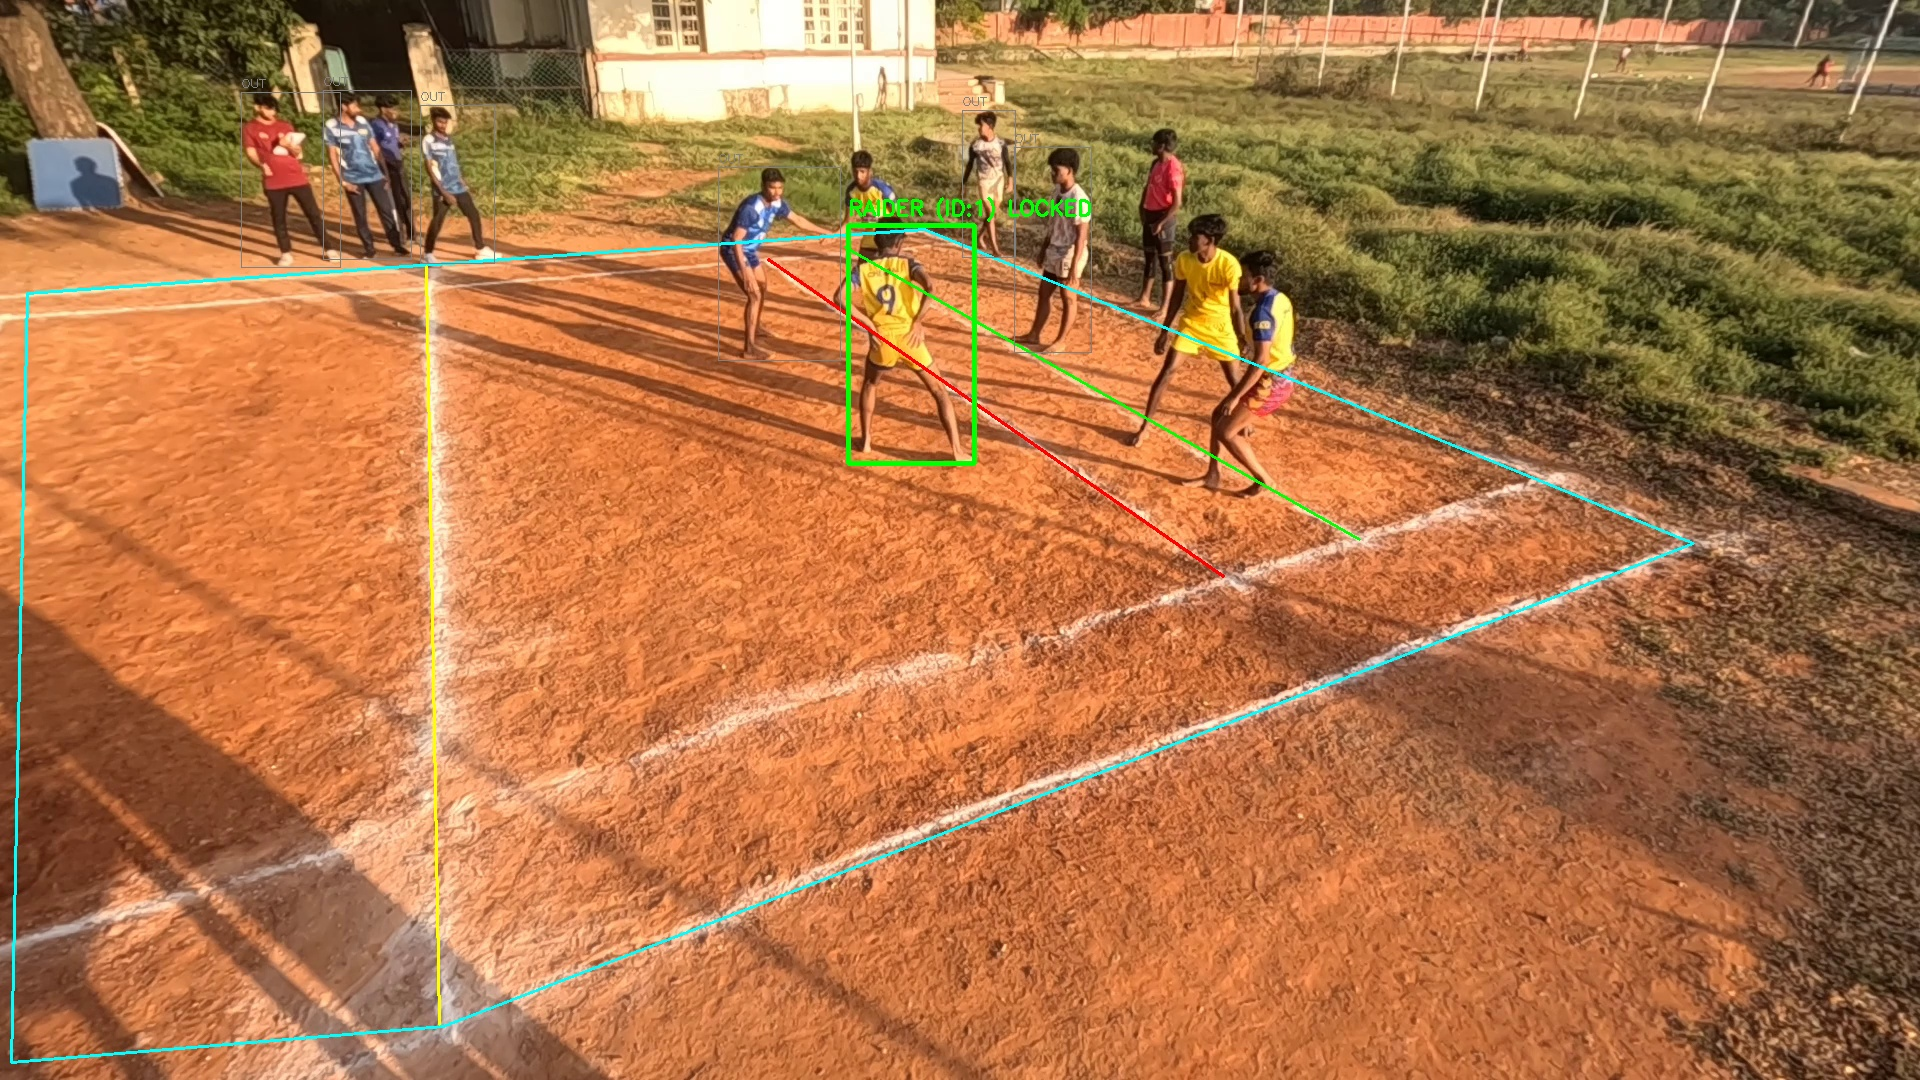
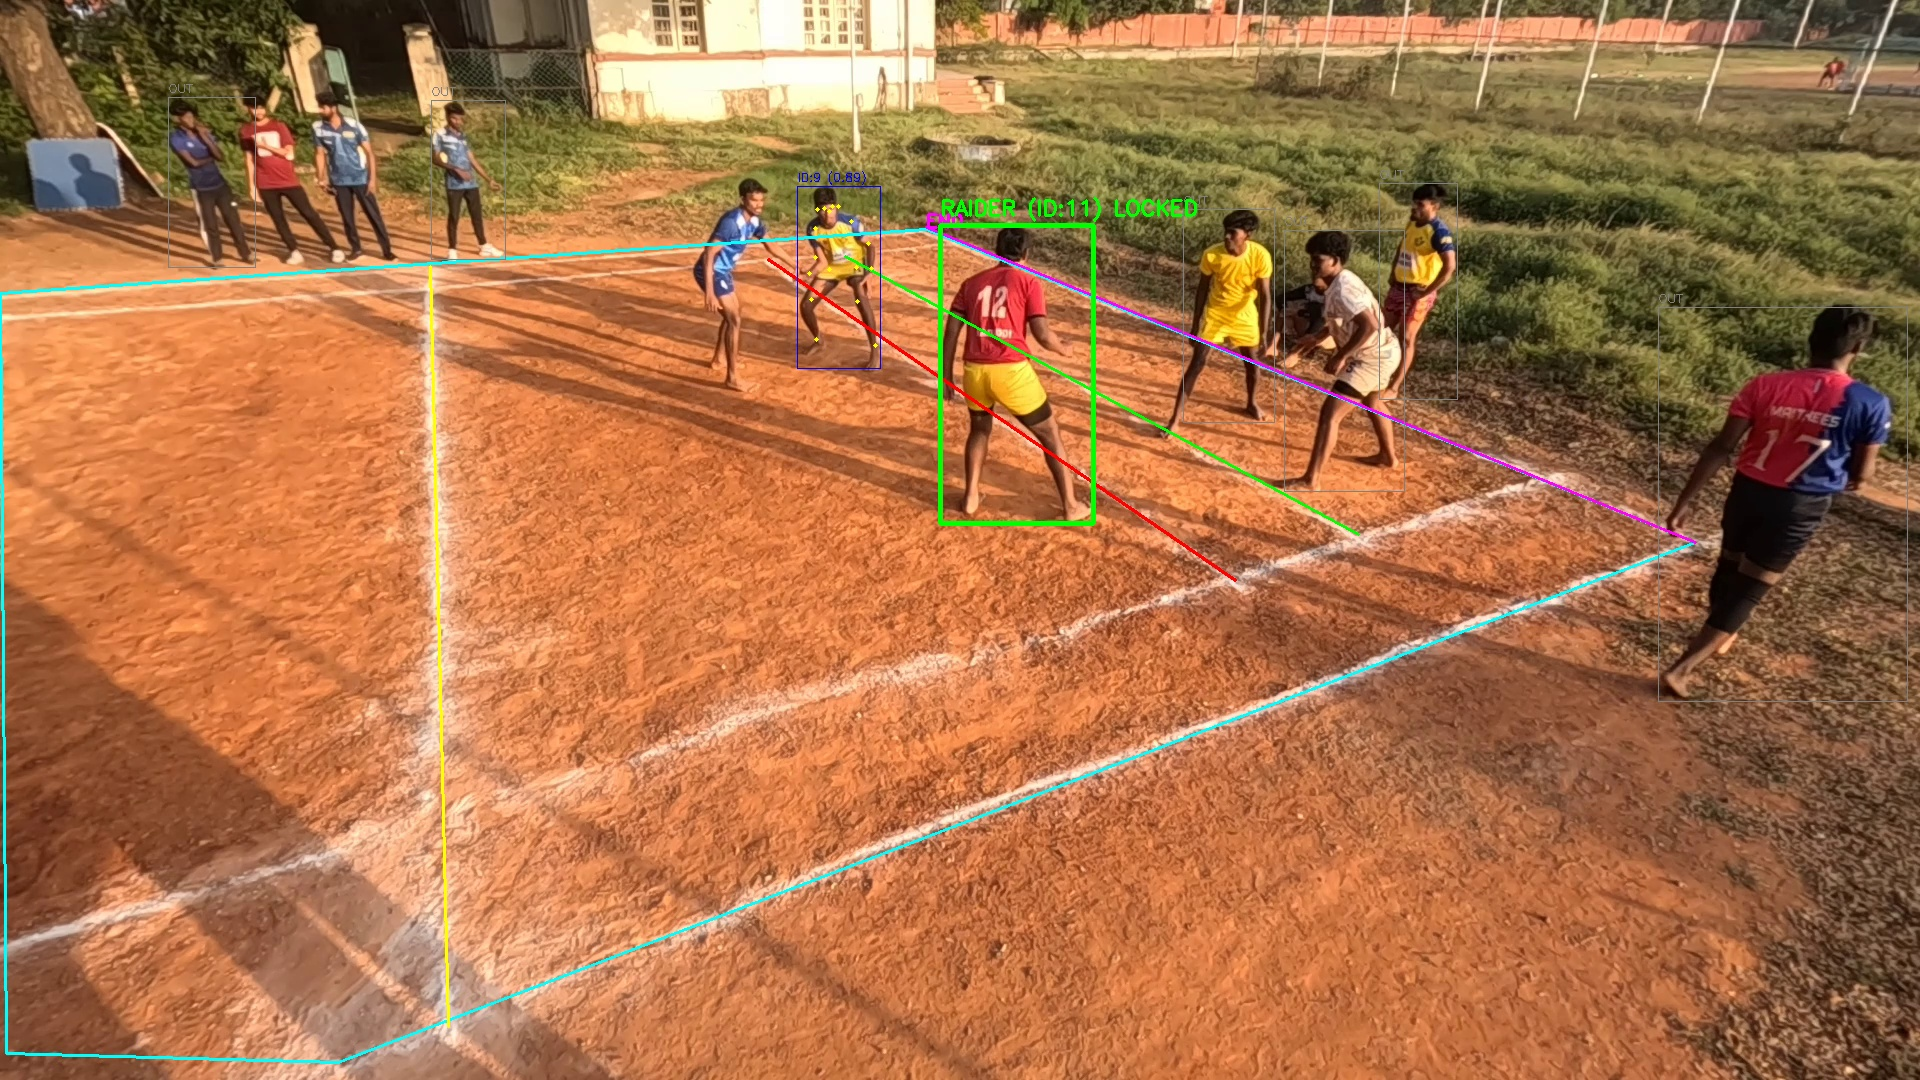
3rd review final push

diff --git a/scripts/data_extract.py b/scripts/data_extract.py
@@ -195,25 +195,20 @@ class DataExtractor:
                     feet_x = (x1 + x2) // 2
                     feet_y = y2  # Bottom of bounding box
                     
-                    # Track maximum penetration from ANY body part
+                    # Track maximum penetration using only INSIDE-COURT points
                     max_penetration_point = (feet_x, feet_y)
                     max_penetration_depth = self.court_dynamics.get_penetration_depth((feet_x, feet_y))
-                    
-                    # Check all keypoints for maximum penetration
+
+                    # Check keypoints — only those confirmed inside the play box
                     if keypoints is not None:
                         for kpt in keypoints:
                             if kpt[0] > 0 and kpt[1] > 0:
-                                kpt_depth = self.court_dynamics.get_penetration_depth((int(kpt[0]), int(kpt[1])))
-                                if kpt_depth > max_penetration_depth:
-                                    max_penetration_depth = kpt_depth
-                                    max_penetration_point = (int(kpt[0]), int(kpt[1]))
-                    
-                    # Also check bounding box corners for extended limbs
-                    for corner in [(x1, y2), (x2, y2), (feet_x, y2)]:
-                        corner_depth = self.court_dynamics.get_penetration_depth(corner)
-                        if corner_depth > max_penetration_depth:
-                            max_penetration_depth = corner_depth
-                            max_penetration_point = corner
+                                kp = (int(kpt[0]), int(kpt[1]))
+                                if self.court_dynamics.is_inside_play_box(kp):
+                                    kpt_depth = self.court_dynamics.get_penetration_depth(kp)
+                                    if kpt_depth > max_penetration_depth:
+                                        max_penetration_depth = kpt_depth
+                                        max_penetration_point = kp
                     
                     all_players[tid]['positions'].append((max_penetration_point[0], max_penetration_point[1], frame_count))
                     all_players[tid]['keypoints'].append(keypoints)

diff --git a/src/ui/kabaddi_ui_clean.py b/src/ui/kabaddi_ui_clean.py
@@ -571,20 +571,21 @@ class KabaddiAnalyticsApp:
                  font=F_H3, fg=TEXT, bg=CARD).pack(anchor='w')
         divider(data_card, bg=BORDER).pack(fill='x')
 
-        tbl_cols = ('Raider ID', 'Duration', 'Max Penetration',
-                    'Crossed Bonus', 'Crossed Baulk', 'Avg Speed')
+        tbl_cols = ('Raider ID', 'Duration', 'Max Penetration (m)',
+                    'Crossed Bonus', 'Crossed Baulk', 'Avg Speed (m/s)')
         tree = ttk.Treeview(data_card, columns=tbl_cols, show='headings', height=8)
         for col in tbl_cols:
             tree.heading(col, text=col)
-            tree.column(col, width=130, anchor='center')
+            tree.column(col, width=140, anchor='center')
+        from court.simplified_court import SimplifiedCourtDynamics
         for raid in raids:
             tree.insert('', 'end', values=(
                 raid['raider_id'],
                 f"{raid['duration']:.2f}s",
-                f"{raid['max_penetration']:.1f}px",
+                f"{raid['max_penetration']:.2f}m",
                 'Yes' if raid['crossed_bonus'] else 'No',
                 'Yes' if raid['crossed_baulk'] else 'No',
-                f"{raid['avg_speed']:.1f}px/s"
+                f"{raid['avg_speed']:.2f}m/s"
             ))
         tree_vsb = ttk.Scrollbar(data_card, orient='vertical', command=tree.yview)
         tree.configure(yscrollcommand=tree_vsb.set)

diff --git a/analytics/raid_extractor.py b/analytics/raid_extractor.py
@@ -117,18 +117,24 @@ class RaidMetricsExtractor:
         return (first_engage - raid_start) / self.fps
     
     def avg_speed(self, positions):
-        """Average movement speed in pixels/second"""
+        """Average movement speed in meters/second"""
         if len(positions) < 2:
             return 0
-        
-        total_dist = 0
+
+        total_dist_px = 0
         for i in range(1, len(positions)):
             x1, y1, _ = positions[i-1]
             x2, y2, _ = positions[i]
-            total_dist += np.hypot(x2 - x1, y2 - y1)
-        
+            total_dist_px += np.hypot(x2 - x1, y2 - y1)
+
         duration = (positions[-1][2] - positions[0][2]) / self.fps
-        return total_dist / duration if duration > 0 else 0
+        if duration <= 0:
+            return 0
+
+        # Convert pixels to meters using court depth ratio
+        px_per_meter = self.court.depth_magnitude / self.court.END_DISTANCE
+        total_dist_m = total_dist_px / px_per_meter
+        return total_dist_m / duration
     
     def direction_changes(self, positions):
         """Count significant direction changes (agility indicator)"""

diff --git a/court/simplified_court.py b/court/simplified_court.py
@@ -147,17 +147,18 @@ class SimplifiedCourtDynamics:
         pixel_distance = abs(A * float(x) + B * float(y) + C) / denominator
         
         # Total perpendicular distance from midline to endline
-        # Use endline center point
-        ex, ey = float(self.end_line[0][0]), float(self.end_line[0][1])
+        # Use the CENTER of the end line (average of both endpoints) for accuracy
+        ex = (float(self.end_line[0][0]) + float(self.end_line[1][0])) / 2
+        ey = (float(self.end_line[0][1]) + float(self.end_line[1][1])) / 2
         total_pixel_depth = abs(A * ex + B * ey + C) / denominator
         
         if total_pixel_depth == 0:
             return 0.0
         
-        # Convert to meters
+        # Convert to meters and hard-clamp to [0, 6.5]
         meters = (pixel_distance / total_pixel_depth) * self.END_DISTANCE
         
-        return float(max(0.0, meters))
+        return float(max(0.0, min(meters, self.END_DISTANCE)))
     
     def crossed_baulk_line(self, point):
         """Check if point crossed the physical baulk line (treat as parallel)"""
